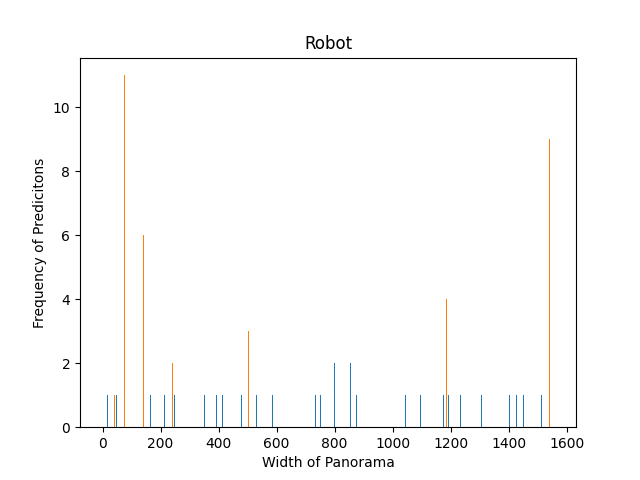
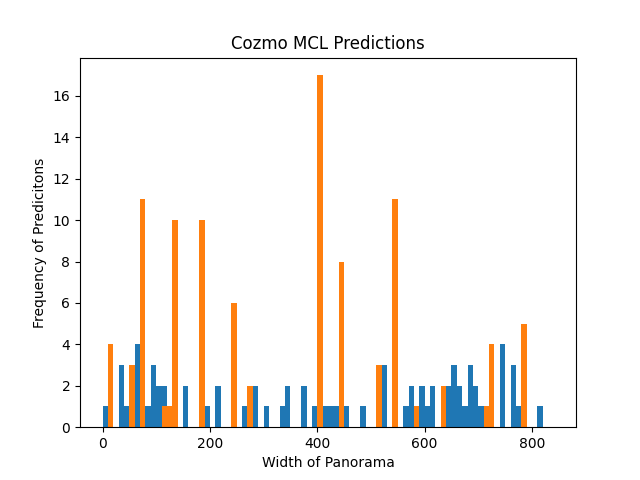
Fixing histogram, MCL optimization

diff --git a/cozmo_MCL.py b/cozmo_MCL.py
@@ -1,5 +1,5 @@
 '''
-Credit belongs to http://cs.gettysburg.edu/~tneller/archive/cs371/cozmo/22sp/fuller/#code
+Based on work of http://cs.gettysburg.edu/~tneller/archive/cs371/cozmo/22sp/fuller/#code
 '''
 
 #!/usr/bin/python
@@ -17,6 +17,7 @@ import math
 import statistics as stat
 import kidnap
 import img_processing as imgPr
+import Histogram
 
 # Arbitrary values, to model gaussian noise.
 sensorVariance = 0.01
@@ -44,10 +45,9 @@ def MCL(robot: cozmo.robot.Robot):
   pointFrame = pd.DataFrame(particles, columns=['particles'])
   
   i = 0
-  while i < 10: # time steps is arbitrary
-    # NEED TO calculate random movement
-    
-    robot.turn_in_place(degrees(18.0)).wait_for_completed() #collect 20 images for pano, so 18 degrees per turn
+  TIME_STEPS = 10
+  while i < TIME_STEPS: # time steps is arbitrary    
+    robot.turn_in_place(degrees(12.0)).wait_for_completed() #collect 30 images for pano, so 18 degrees per turn
     cv_cozmo_image2 = None
 
     # latest_image = robot.world.latest_image
@@ -64,7 +64,7 @@ def MCL(robot: cozmo.robot.Robot):
     # cv_cozmo_image2 = np.array(cozmo_image2)
     
     kidnap.takeSingleImage(robot) 
-    cv_cozmo_image2 = imgPr.get_img("cozmo-images-kidnap\kidnapPhoto.jpg") #get kidnapPhoto from prev method
+    cv_cozmo_image2 = imgPr.get_img("cozmo-images-kidnap\c-kidnapPhoto.jpg") #get cropped kidnapPhoto from prev method
     
 
     # empty arrays that hold population number, and weight
@@ -91,21 +91,20 @@ def MCL(robot: cozmo.robot.Robot):
     # - first sum weights
 
     # sum all weight, create new array size M, calculate probability
-    sum_weights = 0.0
-    for pixel in pixelWeights:
-      sum_weights += pixel
-    probabilities = []
-
-    for m in pixelWeights:
-      probabilities.append(m / sum_weights)
-
+    # sum_weights = 0.0
+    # for pixel in pixelWeights:
+    #   sum_weights += pixel
+    # probabilities = []
+    # for m in pixelWeights:
+    #   probabilities.append(m / sum_weights)
+    probabilities = pixelWeights / pixelWeights.sum() # have not checked yet
     #Cumulative Distribution Function
-    cdf = []
-    sum_prob = 0
-
-    for prob in probabilities:
-        sum_prob += prob
-        cdf.append(sum_prob)
+    # cdf = []
+    # sum_prob = 0
+    # for prob in probabilities:
+    #     sum_prob += prob
+    #     cdf.append(sum_prob)
+    cdf = np.sum(np.tril(probabilities), axis=1)  # have not checked yet
     # cdf[len(probabilities)] = 1.0 last is always 1.0
 
    # redistribute population to newX
@@ -129,13 +128,15 @@ def MCL(robot: cozmo.robot.Robot):
   df.to_csv("data/data.csv", index = False)
   
   # Implement code to make Cozmo turn toward MCL's given highest belief probability:
-  # - How to find max probability (df with 'newParticles' or 'probabilities') -> SEEMS to be 'newParticles' from histogram
+  # - How to find max probability -> 'newParticles'
   # - Break up prob distribution into respective points that refer to degrees out of 360
   # - Mark beginning of pano as 'home' and uses this to find distance from believed location to 'home'
   # - Turn that num of degrees to 'home'
   
-  mostBelievedLoc = (df['newParticles'].mode()).max()   # get max of modes of 'newParticles', this is most frequent belief predication after MCL 
-                                                        # (where Cozmo thinks it is after MCL)
+  #important: bin portions of data to find were most predictions are 'clumped,' then can take 
+  #this bin and set as most believed location
+  mostBelievedLoc = Histogram.makeHistogram()   # get max bin for 'newParticles' histogram, this is most frequent belief predication after MCL of a pixel range 10
+                                                # (where Cozmo thinks it is after MCL)
   #get width of panorama, our 'map' of the environment
   pano = cv2.imread("cozmo-images-kidnap\c-Panorama.jpg") # our cropped panorama
   dimensions = pano.shape
@@ -144,7 +145,7 @@ def MCL(robot: cozmo.robot.Robot):
   #break up map of environment into pieces, corresponding to degrees out of 360
   widthToDegrees = width/360      # one degree out of 360 =  ___ of width
   
-  degreesToLocalize = 0.94*(mostBelievedLoc/widthToDegrees)  #convert location of highest belief in map to degrees for Cozmo to turn
+  degreesToLocalize = 0.95*(mostBelievedLoc/widthToDegrees)  #convert location of highest belief in map to degrees for Cozmo to turn
                                                               #multiplied by small error percentage
   #remove after done debugging
   print(f"Most believed location: {mostBelievedLoc}") #is series want to be float or int
@@ -205,7 +206,7 @@ def compare_images(imageA, imageB):
 def slice(imgName, center, pixelLeft, pixelRight, slice_size):
   # slice an image into parts slice_size wide
   # initialize boundaries
-  img = Image.open("cozmo-images-kidnap\c-Panorama.jpg")
+  img = imgName #Image.open("cozmo-images-kidnap\c-Panorama.jpg")
   width, height = img.size
   left = center - pixelLeft
   right = center + pixelRight
@@ -241,21 +242,20 @@ def slice(imgName, center, pixelLeft, pixelRight, slice_size):
     
     
     
-#CURRENTLY UNINCORPORATED###########################
 #Updates our data for when we move the cozmo to take a new picture to compare to the panorama
-def motionUpdate(): 
-  #reads in the panorama and the data
-  data = pd.read_csv("data/data.csv")
-  pano = cv2.imread("cozmo-images-kidnap\c-Panorama.jpg")
-  dimensions = pano.shape
-  width = dimensions[1]
+# def motionUpdate(): 
+#   #reads in the panorama and the data
+#   data = pd.read_csv("data/data.csv")
+#   pano = cv2.imread("cozmo-images-kidnap\c-Panorama.jpg")
+#   dimensions = pano.shape
+#   width = dimensions[1]
   
-  #gives a rough estimate of how many pixels to the right we are moving in the panorama image
-  toAdd = math.floor(width / 360)
-  data['X'] = data['X'].apply(lambda x: x + (5 * toAdd))
-  #data['X'] = data['X'] + (10 * toAdd)
-  data.loc[data.X > (width - 320), 'X'] = random.randint(1, width - 330)  
-  data.to_csv("data/data.csv", index = False)
+#   #gives a rough estimate of how many pixels to the right we are moving in the panorama image
+#   toAdd = math.floor(width / 360)
+#   data['X'] = data['X'].apply(lambda x: x + (5 * toAdd))
+#   #data['X'] = data['X'] + (10 * toAdd)
+#   data.loc[data.X > (width - 320), 'X'] = random.randint(1, width - 330)  
+#   data.to_csv("data/data.csv", index = False)
 
 
 # TO-DO
@@ -267,9 +267,6 @@ def motionUpdate():
   #MCL motion model
   #update poses when cozmo turns during monte carlo localization
   #need to update pixels by how many pixels 10 would move you
-
-  #Histogram
-  #not seeing density around spikes
 
   #slice
   #needs to wrap around if at one end or the other

diff --git a/Histogram.py b/Histogram.py
@@ -1,5 +1,5 @@
 '''
-Credit belongs to http://cs.gettysburg.edu/~tneller/archive/cs371/cozmo/22sp/fuller/#code
+Modified work of: http://cs.gettysburg.edu/~tneller/archive/cs371/cozmo/22sp/fuller/#code
 '''
 
 #!/usr/bin/python
@@ -30,10 +30,19 @@ def makeHistogram():
   # the csv file when you run the code will be included in the final histogram with the new
   # data unless you clear it first. 
   plt.clf()
-  plt.hist(originalPredictions,range = [0,width], bins = width)
-  plt.hist(newestPredictions,range = [0,width], bins = width)
-  plt.title('Robot')
-  plt.xlabel('Width of Panorama')
-  plt.ylabel('Frequency of Predicitons')
-  plt.savefig("hist.png")
+  fig, ax = plt.subplots()
+  custom_bins = np.arange(0, width, 10) #create custom bins for histogram -> num predictions per range of 10
+  ax.hist(originalPredictions,range = [0,width], bins = custom_bins)
+  freq, bins, patches = ax.hist(newestPredictions,range = [0,width], bins = custom_bins) #newest belief predications
+  ax.set_title('Cozmo MCL Predictions')
+  ax.set_xlabel('Width of Panorama')
+  ax.set_ylabel('Frequency of Predicitons')
+  fig.savefig("hist.png")
+  
+  bin_max = np.where(freq == freq.max()) #returns an array, can be multiple maxs that are equal
+  max_belief = bin_max[0] #get index where max bin is located in array
+  max_belief = max_belief[0] * 10 #scale result up to be pixel location in pano
+  
+  return max_belief #return max_belief for use by MCL
+  #print(max_belief)
 #makeHistogram()

diff --git a/kidnap.py b/kidnap.py
@@ -14,13 +14,14 @@ import cozmo_MCL
 
 def kidnap_problem_solver(robot: cozmo.robot.Robot):
     # Spins the cozmo 360 degrees to get a panorama image of its current environment
-    picColl.take_imgs(robot, num_pic=20, img_dir='cozmo-images-kidnap')
+    picColl.take_imgs(robot, num_pic=30, img_dir='cozmo-images-kidnap')
     # print('imgs collected')
     
     # Turn robot a random amount to simulate a kidnapping & snap picture at new location
     kidnap(robot)
     # print('kidnap')
     
+    #take image at kidnap location
     takeSingleImage(robot)
     # print('take 1 img')
     
@@ -28,7 +29,7 @@ def kidnap_problem_solver(robot: cozmo.robot.Robot):
     cozmo_MCL.MCL(robot)
     
     # Generate histogram to display cozmo's beliefs on location
-   # Histogram.makeHistogram()
+    #Histogram.makeHistogram() #No need, already called in MCL
 
 
 #"Kidnap" robot by rotating a random amount
@@ -57,6 +58,7 @@ def takeSingleImage(robot: cozmo.robot.Robot):
         if not os.path.exists(IMG_DIR): os.makedirs(IMG_DIR)
         imgPr.save_img(img, os.path.join(IMG_DIR, 'kidnapPhoto.jpg'))
         #print('IMG TAKEN')
+        imgPr.crop_img('cozmo-images-kidnap\kidnapPhoto.jpg')    #crop kidnap image for better compatiblitiy with pano
     else:
         print('CANNOT TAKE IMG')
 

diff --git a/img_processing.py b/img_processing.py
@@ -11,7 +11,7 @@ def crop_img(img):
     upperHB =  np.size(crop_img, 0)-40 #upper height bound
     upperWB = np.size(crop_img, 1)         #upper width bound
     cropped_img = crop_img[40:upperHB, 0:upperWB] # Slicing to crop the image, first range is height, second is width    
-    save_img(cropped_img, './cozmo-images-kidnap/c-' + orig_name)
+    save_img(cropped_img, './cozmo-images-kidnap/c-' + orig_name) #FIX ME WHEN DONE
     return cropped_img
 
 #to stitch images together in a panaorama & crop it 
@@ -19,7 +19,7 @@ def stitching():
     images = []
     for i in range(20): #our directory of images has 20 to stich togehter
         images.append( #replace directory with your own 
-            cv2.imread(f'./cozmo-images-kidnap/{i}-{i*18.0}.jpg'))
+            cv2.imread(f'./cozmo-images-kidnap/{i}-{i*12.0}.jpg'))
     stitcher = cv2.Stitcher.create()
     ret, pano = stitcher.stitch(images)
     #print(pano.shape)

diff --git a/README.md b/README.md
@@ -104,5 +104,10 @@ Files and Dirs
 | 4/14: 1:00-2:30PM| MCL testing/debugging | Brayton |
 | 4/14: 1:00-5:20PM| MCL testing/debugging | Nick |
 | 4/16: 9:20-10:00PM| Make Cozmo relocalize after MCL | Nick |
-| 4/16: 2:00-4:00PM | Make Cozmo relocalize after MCL | Nick | 
+| 4/16: 2:00-4:30PM| Make Cozmo relocalize after MCL | Nick | 
+| 4/16: 2:00-4:30PM| Make Cozmo relocalize after MCL | Nick | 
+| 4/21: 1:00-2:30PM| Cozmo localization tuning, website with documentation | Nick, Doug, Brayton |
+| 4/21: 2:30-5PM| Cozmo localization tuning, bins for histogram | Nick |
+
+
 
